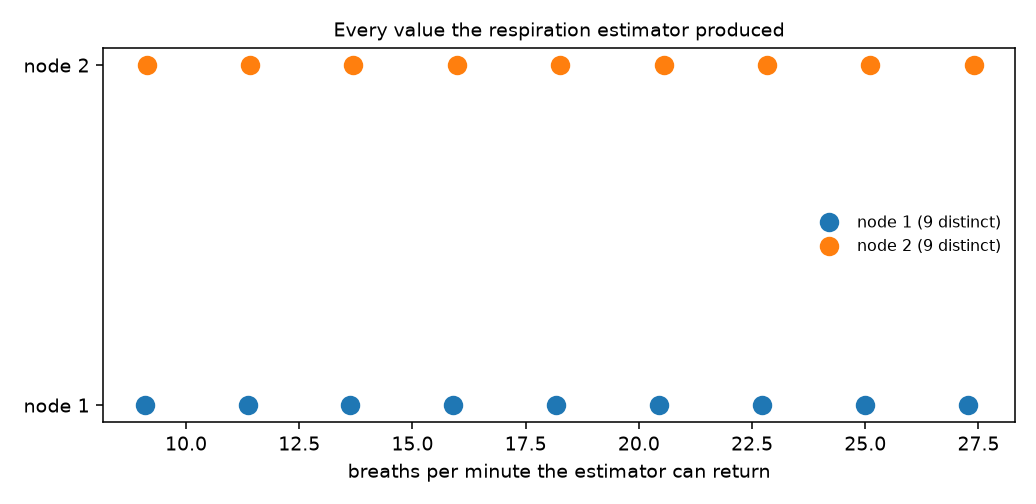
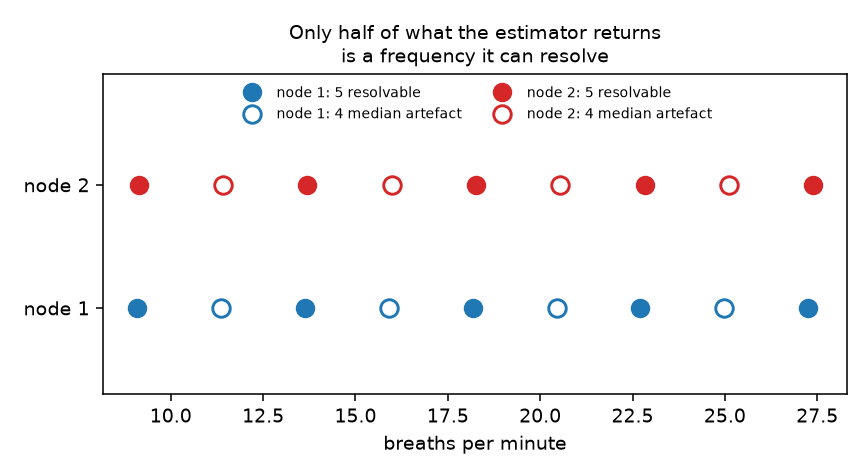
Draw the resolvable bins and the median artefacts distinctly so the figure shows the finding

diff --git a/verification.py b/verification.py
@@ -266,14 +266,28 @@ def fig_fade(res, out: Path):
 def fig_bins(q, out: Path):
     if not q:
         return
-    fig, ax = plt.subplots(figsize=(7.4, 3.6))
+    # The SPLIT is the finding, so the figure has to draw it. A median over an
+    # even K averages the two central values, so every second observed value
+    # falls between two Welch bins, at a frequency the transform never offered.
+    # Plotting all nine as identical dots showed a reader nothing at all --
+    # found by looking at the printed figure beside the text it illustrates.
+    # 6.2 in wide rather than 7.4 so the report's 451 pt column needs no
+    # scaling and the 9 pt labels stay 9 pt on paper.
+    fig, ax = plt.subplots(figsize=(6.2, 3.4))
     for i, (n, s) in enumerate(sorted(q["per_node"].items())):
-        ax.plot(s["values"], np.full(len(s["values"]), i),
-                "o", ms=9, label=f"node {n} ({s['distinct']} distinct)")
+        col = C_MAIN if i == 0 else C_ACC
+        ax.plot(s["real_bins"], np.full(len(s["real_bins"]), i), "o", ms=9,
+                color=col, zorder=3,
+                label=f"node {n}: {len(s['real_bins'])} resolvable")
+        ax.plot(s["midpoints"], np.full(len(s["midpoints"]), i), "o", ms=9,
+                mfc="none", mec=col, mew=1.5, zorder=3,
+                label=f"node {n}: {len(s['midpoints'])} median artefact")
     ax.set_yticks([0, 1]); ax.set_yticklabels(["node 1", "node 2"])
-    ax.set_xlabel("breaths per minute the estimator can return")
-    ax.set_title("Every value the respiration estimator produced", fontsize=10)
-    ax.legend(frameon=False, fontsize=8)
+    ax.set_ylim(-0.7, 1.9)
+    ax.set_xlabel("breaths per minute")
+    ax.set_title("Only half of what the estimator returns\n"
+                 "is a frequency it can resolve", fontsize=10)
+    ax.legend(frameon=False, fontsize=7, ncol=2, loc="upper center")
     fig.tight_layout()
     fig.savefig(out / "fig_v3_estimator_bins.png", dpi=140)
     plt.close(fig)
